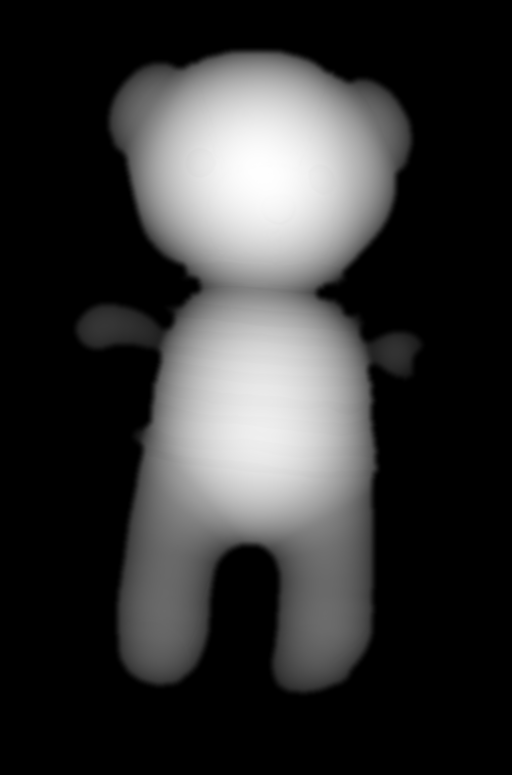
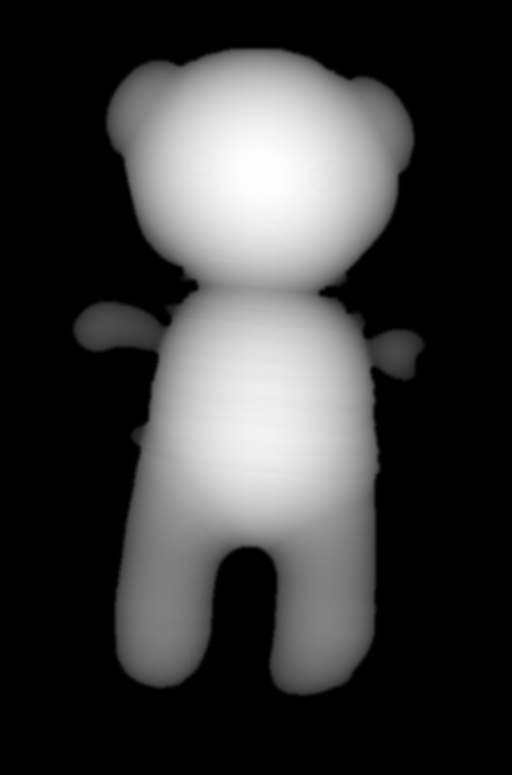
MUCH LOVED: 인형을 더 빵빵하게(두께 앞 1.25·뒤 1.1, 단면 불룩하게)
Claude-Session: https://claude.ai/code/session_012fgrQSuz8bdMe6fYoW4Pch

diff --git a/js/muchloved.js b/js/muchloved.js
@@ -207,7 +207,7 @@ function tex(u, color) {
   if (!texCache.has(u)) texCache.set(u, new Promise((r) => loader.load(u, (t) => { if (color) { t.colorSpace = THREE.SRGBColorSpace; t.anisotropy = 4; } r(t); }, undefined, () => r(null))));
   return texCache.get(u);
 }
-const DEPTH = 0.36, BACK = 0.3, FRONT_K = 0.8, BACK_K = 0.7, MAX = THREE.MathUtils.degToRad(22), TURN = THREE.MathUtils.degToRad(42);
+const DEPTH = 0.36, BACK = 0.3, FRONT_K = 1.25, BACK_K = 1.1, MAX = THREE.MathUtils.degToRad(22), TURN = THREE.MathUtils.degToRad(42);
 
 // 셰이더: 표준 재질에 자국 지도(R 손때 · G 해진 곳 · B 눌림)와 누르는 자리(uPress)를 더함
 function wearMaterial(d) {
@@ -264,11 +264,11 @@ function wearMaterial(d) {
 const dolls = new Map(); // id → doll (만들어진 것)
 const making = new Map(); // id → Promise
 let _th = null;
-const thick = () => _th || (_th = fetch(A + 'r/depth.json?v=3').then((r) => r.json()).catch(() => ({})));
+const thick = () => _th || (_th = fetch(A + 'r/depth.json?v=4').then((r) => r.json()).catch(() => ({})));
 function makeDoll(id) {
   if (making.has(id)) return making.get(id);
   const p = (async () => {
-    const [col, dep, nor, TH] = await Promise.all([tex(A + `r/${id}_color.webp?v=2`, 1), tex(A + `r/${id}_depth.png?v=4`), tex(A + `r/${id}_normal.webp?v=4`), thick()]);
+    const [col, dep, nor, TH] = await Promise.all([tex(A + `r/${id}_color.webp?v=2`, 1), tex(A + `r/${id}_depth.png?v=5`), tex(A + `r/${id}_normal.webp?v=5`), thick()]);
     if (!col) return null;
     const asp = col.image.width / col.image.height;
     // 인형마다 실제 두께(둥근 단면, tools/muchloved-relief/relief2.py) — 없으면 예전 값

diff --git a/muchloved.html b/muchloved.html
@@ -33,6 +33,6 @@
   <main id="ml"></main>
   <div id="ml-sleep" class="ml-sleep" hidden><p class="ml-sleep-t">00:00</p><p class="ml-sleep-h">들어 올리면 깨어나요</p></div>
   <video id="ml-cam" playsinline muted hidden></video>
-  <script type="module" src="js/muchloved.js?v=15"></script>
+  <script type="module" src="js/muchloved.js?v=16"></script>
 </body>
 </html>

diff --git a/tools/muchloved-relief/relief2.py b/tools/muchloved-relief/relief2.py
@@ -40,7 +40,9 @@ def run(folder):
         # 가장자리에서 두께가 0이 되게(2026-11-25): 둥근 단면은 테두리에서 가파르게 솟아서
         # 앞면·뒷면이 테두리에서 만나지 못하고 틈이 벌어져 '찢어진' 것처럼 보였음
         de = cv2.distanceTransform(m, cv2.DIST_L2, 5).astype(np.float32)
-        e = np.clip(de / 10.0, 0, 1); z *= e * e * (3 - 2 * e)   # 테두리 10px 안에서 부드럽게 0으로(격자 4칸쯤)
+        # 솜이 꽉 찬 단면(2026-11-25 소유자: 더 빵빵하게): 둥근 단면을 조금 더 불룩하게(어깨가 꽉 찬 모양)
+        zm0 = float(z.max()) or 1.0; z = zm0 * (z / zm0) ** 0.78
+        e = np.clip(de / 6.0, 0, 1); z *= e * e * (3 - 2 * e)   # 테두리 6px 안에서 부드럽게 0으로
         # 천의 주름·솔기: 사진 밝기의 잔결을 아주 조금
         g = cv2.cvtColor(cv2.resize(col[:, :, :3], (w, h), interpolation=cv2.INTER_AREA), cv2.COLOR_BGR2GRAY).astype(np.float32) / 255
         hp = g - cv2.GaussianBlur(g, (0, 0), 4)

diff --git a/CLAUDE.md b/CLAUDE.md
@@ -20,7 +20,7 @@
 | `bitssal.html` + `js/bitssal.js` | A-003 빛쌀 단독 스크롤 스토리 (캔버스 쌀알 1,900개, 15장면). **PART 1 순이의 이야기**(prologue→life→hunger→demand→street→spread→erased→boundary→mine→truth→light — **2026-11-18 소유자: 광주(1980 주먹밥) 장 'share'는 뺌**, 장 번호는 빛이 10, 글·체험 코드는 파일에 남겨 둠: 이야기·조작만, 기록·사진·영상 없음) → **PART 2 작품과 기록**(work: 조형물·사진·작품 영상 / records: 짧은 기록 7장 / archive). **장마다 읽기 → 체험 순서**(2026-11-14): 장 표지(번호·제목, 이때 쌀알·그림은 거의 꺼짐) → 이야기 카드(읽는 동안 얼굴만 그리고 장면 그림은 흐리게, 숫자·라벨 숨김, 조작·센서는 받지 않음) → 한 화면 띄우고 '체험' 카드(이때부터 조작). 예전 떠오르는 장 제목(chap-flash)은 없앰. **하나씩, 여유 있게**(소유자 요청): 장 표지는 번호→제목→선 차례로, 이야기 카드는 쌀 얼굴이 먼저 그려지고(1.4초) 문단이 함께 나타남(2문단 정도는 한 번에 괜찮음, 소유자), 읽을 시간(글자 수로 4~14초)이 지나야 체험이 열림(`runSeq`, 카드가 화면 밖이면 멈춤). **한 번에 하나만**: 얼굴을 그리는 동안 다른 쌀알·장면 그림은 거의 끔(97%), 장 표지 때도 거의 끔, 위로 지나간 장 표지·이야기 카드는 `.past`로 사라짐. **체험 카드는 바로 앞 이야기를 다 읽어야 열림**(`.card.play.locked` → `opened`, 잠긴 동안 조작·센서 안 받음, '위의 이야기를 다 읽으면 체험이 열려요'). 카드 사이 간격·장 끝 여백을 넓힘(종류가 바뀔 때 크게: 표지→이야기 0.55화면, 이야기→다음 0.9, 체험→다음 0.6, 다른 카드→이야기 0.6). **휴대폰(앱)만: 쌀알이 끊기지 않고 모양을 바꿔 흐름**(2026-11-16, PC는 예전대로): 첫 화면은 쌀알로 된 《빛쌀》 조형물(`sculpt`, 상단 머리와 아래 글 사이에 맞춤, 유리 테두리 `glassW` 안에서만) + 아래 글('한 톨의 쌀알에 얽힌 이야기 / 아흔 살 순이가 대구에서 겪은 일', 4개 언어) → 흩어짐(`dust`) → 아흔 살 순이 얼굴 → '한 그릇 더' → 흩어짐 → **장 제목(이때는 흩어진 채) → 제목이 지나가면 그 장의 모양(`SHAPE_OF`, `js/bitssal-shapes.js`) → 그 모양이 그대로 인물 얼굴로**(얼굴 없는 장은 글이 올라올 때까지 모양 유지) → 글 → 흩어짐 → 체험 카드가 아래에 붙으면(`.docked`) 체험. 모양: 밥상(table)·쌀독(jar)·쌀 한 톨(grain)·등잔(lamp, 켜지 않은)·지도(spread)·경찰(police, 이목구비 없음)·고무신(shoes)·밥 한 그릇(bowl)·7(seven)·주먹밥(riceball)·불꽃(flame). 모드 `mm`: title > face > play > shape > intro > dust. 다른 글('4년 뒤' 등)이 보이면 모양을 띄우지 않음. 장 표지 → 이야기 사이 0.9화면, 다른 글 → 이야기도 0.9화면. **글 뒤 어두운 바탕·테두리 없음**(글자 그림자만, 붙은 체험 카드 아래만 옅은 그라데이션). **휴대폰 체험 바뀜**(`MOB`, 문구 `mia`): ①밥상 = 폰을 주걱처럼 숙였다 들면(`watchScoop`, 기울기 tiltY 흔들림) 가운데 솥에서 밥을 떠 그릇에 담음(3번에 한 그릇, 솥을 눌러도 됨) ②쌀독 = 큰 쌀독만, 흔들어 털면 바닥에 쌀이 쌓임 ④밤 = 새벽에 오빠 얼굴 겹치던 것 뺌 ⑥낮은 목소리 = 체포영장 같은 옛 문서(일러스트, '문서는 이해를 돕기 위한 일러스트')가 먼지에 덮여 있다가 후 불기(마이크)·문지르기로 드러남. **광산부터 줄임**: 광산(손전등)·주먹밥(돌리기) 체험 카드 없음, 빛은 누르기·들어 올리기만(마이크·AR 버튼 뺌), 7월은 그대로. 작품 장 조형물은 기울이면 흐르는 속도만 바뀜(밀림·흔들림 없음). **기억을 위한 한 문장**: 남기면 글자 하나하나가 입력칸에서 불빛처럼 떠올라 빛 장면 하늘(`.mem-sky`, 최근 5문장)에 머묾(PC도 같음, 캔버스 빛 점은 뺌). **마지막 '전시 행성 나가기'**(예전 'ARTMOS 행성계로 돌아가기'가 #story의 pointer-events 때문에 안 눌렸음): 앱 안이면 `postMessage({type:'artmos:close-exhibit'})` → `app.js`가 전시를 닫음, 웹이면 홈으로. **스크롤 끊김 줄이기**(2026-11-17): 쌀알은 색·크기별로 한 번 그려 둔 그림(`grainSprite`)을 회전해서 찍기만 함(매 프레임 도형 1,900개를 새로 그리지 않음, 다 찍은 뒤 `gReset()`), 화면 밖·안 보이는 쌀알은 건너뜀, 흩어진 쌀알은 2/3만, 휴대폰 캔버스는 1.5배 해상도, 주소창 때문에 높이만 조금 바뀌는 resize는 무시(캔버스·카드 다시 배치 안 함), 휴대폰은 화면 전체 필름 입자 애니메이션 멈춤·글자 그림자 한 겹. 측정(휴대폰 크기, CPU 4배 느리게): 쌀알 그리기 JS 프레임당 약 21ms → 11ms. **스크롤 속도 맞춤**(2026-11-17 소유자: 빈칸 줄이기): 휴대폰만 카드 사이 빈칸을 줄임(`GAP_M`: 장 표지→얼굴 이야기 0.35·얼굴 없는 이야기 0.55, 이야기→다음 0.4, 체험→다음 0.4, 체험 뒤 0.6, 기본 간격 0.07, 장면 기본 길이 ×0.75, 얼굴 자리 `.st-stage` 82→70svh — 얼굴 크기는 화면 폭으로 정해져 그대로) → 휴대폰 전체 길이 79화면 → 약 56화면(390px), PC는 그대로 68화면. 붙은 체험 카드는 붙기 전 높이(`_natH`)로 배치해 아래가 들썩이지 않게. 장면·카드 위치는 배치할 때 한 번 재 두고(`GEO`, `cacheGeo()`, `rect(el)`) 프레임마다는 scrollY만 빼서 씀(매 프레임 getBoundingClientRect 17곳 → 0). 쌀알 움직임은 프레임 길이로 보정(`FR`, 120Hz·느린 프레임에서도 같은 빠르기)하고 빨리 스크롤하면(`SCR`, 1.5화면/초면 최대) 더 빨리 모여 글을 바로 따라옴. 진행 막대는 width 대신 transform scaleX. 첫 장면(prologue)은 기본 길이를 줄이지 않음(줄이면 아래 글이 올라가 조형물이 상단 머리와 겹침). 붙은 체험 카드는 가로 스크롤 금지(`overflow-x: hidden`, 예전 그라데이션 조각이 카드 밖으로 나가 아이폰에서 글이 옆으로 밀렸음), 바탕 그라데이션은 카드 안에. 맨 위·아래에서 당길 때 출렁임은 `overscroll-behavior-y: none`. **얼굴·글 한 화면 + 장 모양 머물기**(2026-11-18 소유자): 얼굴 자리 `.st-stage` 70→44svh, 얼굴 크기는 `min(얼굴 자리 높이/2.2, 화면 폭×0.42)`라 얼굴(위아래 약 2배)이 자리 안에 맞고 아래 글 상자와 한 화면에 같이 보임. 장 제목이 지나 나온 장 모양은 적어도 `SHAPE_MIN`(2.4초) 머문 뒤 얼굴·글로 바뀜(빨리 내려도 한 번은 보여 줌, 장마다 한 번), 모양→얼굴 바뀜은 약 1.4초로 천천히, 장 표지→얼굴 이야기 간격 0.35→0.5. **상단 바 위치(2026-11-18)**: 앱 안 전시 틀(iframe)에서는 아이폰이 상태 표시줄 높이(`env(safe-area-inset-top)`)를 0으로 줘서 상단 바가 시계 줄과 겹쳤음 → 빛쌀은 `--sat` 변수로 상단 바·진행 막대·목차·HUD 위치를 잡고, 앱 안 아이폰이면 `bitssal.js` 첫머리가 화면 높이로 어림(852 이상 59px·812 이상 47px·그 밖 20px), 앱이 `postMessage({type:'artmos:safe', top})`로 정확한 값을 보내면 그걸 씀(`app.js` 전시 틀 load 때 보냄 — 앱 틀이라 다음 앱 빌드부터). `bitssal.html` viewport에 `viewport-fit=cover`. **얼굴 없는 이야기엔 물건**(2026-11-18 소유자): 휴대폰에서 얼굴 없는 이야기 카드(밤·번짐·낮은 목소리·한 그릇 더)도 얼굴 자리(`.st-stage`, `data-obj`)를 두고 그 장의 물건(`SHAPE_OF`: 등잔·지도·경찰·밥그릇)을 얼굴처럼 그림(`objPoints`: 높이 2·폭 2.1에 맞춤, 장 모양에서 그대로 옮겨 감). **쌀독 체험**: 털어낸 만큼 독 안 쌀알 수가 줄어 40번 털면 빈 독(예전엔 바닥으로 눌리기만 해서 차 보였음). **대구까지 거리**(번짐 체험, 휴대폰): 위치를 받으면 번짐 약도 위 '지금 나' 자리에서 대구까지 쌀알 360개가 2.5초에 걸쳐 한 줄로 이어지고 가운데 km 표시, 대구 고리가 깜빡임(`geoTrail`, `geoXY` — 지역 덩어리에 맞춘 대략의 투영, 지도 밖·해외면 대구에서 그 방향 지도 끝), 결과 글 끝에 '약도 · 실제 위치와 조금 다를 수 있어요'(4개 언어 `GEO_T`). 위치는 기기 안에서만 씀. 시험 `#debug`면 `window.__bs`(state). **전체 점검(2026-11-18)**: 빛쌀 번호 A-003 → **A-002**(닫힌 전시를 빼고 다시 매긴 번호, `bitssal.js` 맨 위 `NUM`·`bitssal-scenes.js` p0·`bitssal.html` 제목 — 번호가 바뀌면 셋 다), 탭 아이콘(`artmos-mark.svg`) 넣어 favicon 404 없앰, **일본어·중국어 줄바꿈**: `word-break: keep-all`(한국어용)이 띄어쓰기 없는 일본어·중국어 문단을 한 줄로 만들어 휴대폰에서 화면이 옆으로 137px 넘쳤음 → `html:lang(ja|zh)`면 글자 단위 줄바꿈(`bitssal.css`·`style.css` 끝, 최초의 방 등 전시 페이지도 같이). 4개 언어×휴대폰·PC로 모든 장을 내려가며 체험을 열고 누르는 자동 점검: 오류 0, 카드 겹침 0, 가로 넘침 0. **휴대폰 상단 바 자동 숨김**(2026-11-17 소유자): 아래로 24px 넘게 스크롤하면 머리·진행 막대가 위로 숨고(`body.top-hide`), 위로 14px 올리면 다시 나옴. 맨 위(120px 안)·목차 열린 동안은 늘 보임. PC는 그대로. 측정(390px, CPU 4배 느리게, 30화면 스크롤): 스크립트 시간 −14%, 레이아웃 횟수 1,019 → 약 480. **휴대폰 배치**(2026-11-14): 이야기 카드 위쪽은 투명한 얼굴 자리(`.st-stage`, 46vh)로 비우고 글은 아래 상자(`.st-box`)에 — 쌀 얼굴이 그 자리에 그려져 카드와 함께 스크롤됨(작은 초상은 숨김). 체험 카드는 화면 아래에 고정(`.docked`, 다음 카드·다음 장이 보이기 전에 내려감), 쌀알 무대 중심은 화면 38% 높이. 글 카드엔 어두운 바탕, 큰 연도 숫자는 휴대폰에서 숨김, 입장 화면·상단 머리는 뒤가 비치지 않게. **내레이션 녹음 붙임**(2026-11-18): 한국어 12개 `assets/narration/ko/ko_<키>.mp3`(prologue·life·hunger·demand·street·spread·erased·boundary·mine·truth_1·truth_2·light, 128kbps 모노, 합계 4.4MB, 소유자가 보낸 01~12를 이 순서로 — 11번이 7월 두 번째 이야기인지 소유자 확인 필요). 이야기 카드에 `data-nk`(장 이야기가 둘이면 `_1`·`_2`). 소리를 켠 사람에게만, 이야기 글이 나타나면(`c._shown`) 그 카드 녹음을 틀고 배경 소리는 0.35로 낮춤, 글 상자가 화면을 벗어나거나 다른 이야기로 가거나 소리를 끄거나 영상을 틀면 멈춤, 끝까지 들은 카드는 다시 틀지 않음. **녹음이 끝나야 체험이 열림**(`_narrWait`, 멈춰도 길이+4초 뒤엔 열림). 아이폰은 첫 터치 때 0.1초 무음을 틀어 재생을 풀어 둠(이미 읽는 중이면 건드리지 않음, 막히면 다음 터치 때 다시). 얼굴이 보일 때 파일을 미리 받음. 다른 언어는 `NARR_LANGS`에 넣고 `en/en_life.mp3`처럼 넣으면 됨. 시험: `#debug`면 `window.__narr`. 예전 기기 음성 `js/bitssal-narrator.js`는 안 씀(남겨 둠). 이야기 문단은 하나씩 나타남, 가장자리 어둡게+필름 입자. 렌더 루프는 오류가 나도 멈추지 않게 `draw()`를 try로 감쌈. 끝부분에 모바일 전용 블록(흔들기·AR) |
 | `sansa.html` + `js/sansa.js` + `css/sansa.css` | **A-004 산사, 잠시 머물다** 3D 온라인 산사 (Three.js, 기획 제안 프로토타입, 조계종 협력 가정·협의 전 — 실제 주최로 표시하지 말 것, 로고·공식 문구 사용 금지). 산문 → 돌길 마당(석등) → 계단 → 법당 '고요당'(VALIX 현판·후불벽 무늬·불상·초·연등·방석). 캐릭터(작은 방랑자 스님, 이름표는 앱 항해명 `valix-me`)를 뒤에서 따라감. 휴대폰: 앞으로 기울이면 걷기·몸을 돌리면 방향(나침반)·흔들면 목탁·엎었다 들면 절·화면 보며 돌리면 염주·방석에 앉아 엎어 두면 좌선(들면 종). PC: WASD/방향키·끌기. 하단 합장·절하기·목탁·염주·앉기, 상단 나가기·소리·설정(기울여 걷기/나침반 끄기, 자세 다시 맞추기), 염불 듣기('나무아미타불'을 목소리 합성 — 성대 톱니파+포먼트 필터, 세 사람 합창, 음절마다 목탁, 화면에 음절 자막). 소리: 목탁은 나무 울림 합성, 압축기·리미터로 휴대폰 스피커 음량 확보, iPhone 무음 스위치 대응(`navigator.audioSession='playback'`+무음 오디오), 앱 전환·권한 창 뒤 자동 재개. `#debug`면 `window.__snd`(소리 테스트용). 접속자 수·다른 사람 아바타는 서버가 필요해 아직 없음. `#debug`면 `window.__st` 노출 |
 | `silnat.html` + `js/silnat.js` + `css/silnat.css` + `js/silnat-art.js` | **c007 A-003 실낱 같은 희망(김바늘, 작가 동의 받음, 2026-11-17 공개, 무료)** — `data/cells.json` c007(url·month 2026-11·poster·logo 칸), 포스터 `assets/posters/c007-*`, 월간 호 2026-11·2026-12.  스크롤 한 줄 붉은 실 전시, **센서 없음**. 첫 장면은 원작 Take 1·2(작가 허락, 원작 사진의 선을 벡터로 옮김 `assets/silnat/take1-ink.svg`·`take2-ink.svg`, 변환 `tools/silnat-trace.py` — 고해상도 원본 받으면 다시 뽑기)를 스티키로: 선이 나타남 → 숨 쉼(인물만 `clip-path`로 떼어 scale, 머리카락 흔들림 필터는 무거워서 뺌) → 고개를 듦(Take 1→2 겹쳐 바뀜) → 구석의 붉은 실. 그 실 끝에서 진짜 실(두 가닥 꼬임·보풀·그림자, `redThread`)이 이어져 다섯 사람(가상의 인물·전시 문안: 정옥·민재·영호·란·서윤) 장면 그림(`sceneSVG`, 검은 실 스케치·인물 이목구비 없음)을 차례로 감고 다시 그 방 발치까지 감. 실은 가장자리를 따라 내려가 장면 사이 빈 곳에서만 건넘(`route`), 가로로 가거나 감길 땐 늦게 나타나 그 자리에 머묾. 실은 280px 조각 SVG로 나눠 제자리에 두고 보이는 조각만, 바늘이 지나는 조각에만 mask. 매듭 짓기(선택), 아직 수놓이지 않은 장(Take 3~5), PART 2 작품 정보·크레딧, 끝에 109·마들랜 한 줄. 문서 `docs/exhibitions/c007-silnat/`. 한·영·중·일(글은 `silnat.js`의 `TEXT`, 외국어엔 장면마다 배경 한 줄, 109 대신 '가까운 상담 기관') |
-| `muchloved.html` + `js/muchloved.js` + `css/muchloved.css` | **c008 MUCH LOVED(김규진, 작가 계약·3D 공개 포함·사진 사용 허락, 2026-11-18 공개, 무료)** — 애착 인형 조각 15점. `data/cells.json` c008(url·month 2026-11,2026-12), 월간 호 2026-11 표지(첫 장)·2026-12, 포스터·로고 `assets/posters/c008-*`(소유자가 준 소파 설치 사진·손글씨 로고, 포스터는 3:4로 위아래를 조금 자름). **v3(2026-11-19 소유자: 3D를 더 적극적으로, 옆으로 넘기지 말고 쭉 스크롤)**: 화살표·좌우 넘기기 없이 **세로 스크롤 하나**. 0 쥐기(꾹 누르면 심장 박동·글 6줄, '들어가기'에서 동작 권한) → 장 표지 → 레진 인형 10점이 한 장면씩(`.dsec` 230svh, 붙박이 칸 `.stk`를 따라 3D가 함께 오르내림, 두 인형이 겹쳐 지나갈 때도 둘 다 그림): 액자 7(SNOW·DINO·FLOOPY·HOBBY·FU FU·PEANUT·MOON) → 서랍(TOMMY 사진, **내려갈수록 서랍이 열림** + 몸 쪽으로 당겨 세우기) → 소파 3(JAKE·PEANUT·MAS, 내려갈수록·기울이면 쿠션이 벌어짐) → 두 손으로 감싸기(두 손가락 이상·꾹, 덤으로 카메라 밝기) → 은빛 바닥(알루미늄 4 사진, 쓸면 **입김처럼 흐렸다 다시 맑아짐**·기울이면 빛, '금속은 닳지 않아요') → 잠들기(엎어 두기·손바닥 얹기·버튼) → 5 **당신이 남긴 자국**(인형마다 손때·해진 곳·납작해진 곳 %) + 나의 인형 이름표(`valix-muchloved-tag`) → 6 맺음. **입체를 더 깊게(2026-11-20 소유자: 다소 평면적)**: 인형마다 **뒷면**(`backMesh`: 앞면 사진을 흐리게 해 얼굴 없는 천 뒷모습 + 깊이를 꼭짓점으로 옮겨 뒤로 0.3, 앞면과 가장자리에서 만나 닫힌 몸통, 앞면 깊이 0.36), 스크롤로 들어올 때·나갈 때 **옆으로 약 77° 돌며** 두께·뒷모습이 보이고, 머무는 동안 기울기·마우스로 ±42° 돎(액자째로는 ±10°만 → 시차). 액자 인형은 **3D 액자 상자**(`frameBox`: 흰 틀 깊이 0.62·안쪽 짙은 판·핀 조명 웅덩이), 소파 인형은 **3D 천 쿠션**(`sofaCatcher`→`pillow` 등받이·앉는 자리, PEANUT은 앞 쿠션 사이에서 귀만 보이다 끌어 올림 — 예전 CSS 쿠션 `.cush`는 안 씀). **휴대폰 맞춤(2026-11-25 소유자: 모바일에서 소파가 잘 안 보임)**: 소파가 화면보다 넓어 회색 벽처럼만 보였음 → 양쪽 팔걸이를 붙이고, 휴대폰은 소파 폭을 좁혀(`asp×1.05+0.25`, 팔걸이 0.26) 팔걸이까지 화면 폭 95% 안에 다 들어오게 크기를 정함(`box.userData.w`). 휴대폰 액자는 화면 폭 80%(PC 84%). **스포트라이트**(`spot`) 하나가 화면 가운데 인형을 따라가며 실제 그림자(앞·뒷면 모두 `customDepthMaterial`로 투명한 곳 빼고)를 액자 안·쿠션에 드리움, 휴대폰 그림자 지도 1024. 인형 입체 체험: 앞면 입체(`assets/muchloved/r/<id>_color·_depth·_normal`) + 인형마다 **자국 지도** 캔버스(256px, R 손때·G 해진 곳·B 눌림/반들)를 `MeshStandardMaterial.onBeforeCompile`이 읽음(B는 오목+그늘+거칠기 낮춤=반들, uPull로 잡아당김). **인형마다 체험 하나씩(2026-11-19 소유자: 각 인형별로 다른 체험, 하나씩만, `MODE`)**: SNOW 문지르기(손때) · DINO 후~ 불기(마이크·버튼, 손때 많은 곳부터 해진 곳이 30%까지 자라며 비어져 나온 솜·솜 입자) · FLOOPY 꾹 누르기(300ms 넘게 가만히, 1.2초면 최대, 놓으면 조금 납작하게 남음) · HOBBY 흔들기(센서·버튼, 해진 틈에서 솜이 떨어짐) · FU FU 꼭 껴안기(두 손가락 이상 또는 꾹, 인형이 폭 눌리며 1.1초마다 박동) · PEANUT(액자) 톡톡 두드리기(두드린 자리가 반들반들) · MOON 잡아당기기(끌면 천이 늘어나고 놓으면 돌아옴, 세게 당기면 실밥이 터져 솜) · JAKE 기울이기(PC는 끌기, 소파 위를 구르며 아래쪽에 먼지 자국) · PEANUT(소파) 꺼내기(앞 쿠션 `.cush.f` 틈에서 위로 끌어 올림) · MAS 이름 부르기(마이크 `micLevel`·버튼, 목소리에 몸을 돌리고 빛이 밝아짐). **다 채우면 바뀜(2026-11-25 소유자: 100% 채워도 변화가 없음)**: 인형마다 진행 막대(`.d-prog`, `progOf`: 손때 40%·해진 곳 28%·누르기 5번·흔들기 12번·안기 8초·두드리기 20번·당기기(번+실밥×2) 8·굴리기 8·꺼내기 찾음·부르기 3번) → 100%면 `complete()`: 한 바퀴 돌며 떠오름(1.8초), 남긴 자국이 금빛으로 숨 쉬듯 빛남(셰이더 `uGlow`, 닳은 자리=사랑받은 자리), 금빛 가루(`sparkle`, 덧셈 혼합), 스포트라이트가 따뜻하게, 종소리·박동, 안내 글이 '다 채웠어요'+인형마다 한 문장(`DONE_LINE`), 막대 금빛. '원래대로'면 처음으로(`undone`). 5장에 '다 채운 인형 n / 10'. **PC·노트북은 다른 체험(2026-11-25 소유자: 웹은 PC에서 할 수 있는 경험으로 앱과 다르게, `PC = !IS_MOBILE`, 문구 `TEXT_PC`)**: SNOW 마우스를 올려 쓰다듬기(누르지 않아도) · DINO 스페이스바 누르고 있기(+마이크 버튼) · FLOOPY 인형 위에서 휠 굴리기(굴린 만큼 깊이, 멈추면 자국) · HOBBY 잡고 좌우로 세게 흔들기(방향이 바뀔 때마다 한 번, `d.wob`로 흔들림) · FU FU 인형 둘레를 마우스로 한 바퀴 그리기(`circ`, 4.2초 안음) · PEANUT(액자) 키보드 아무 글자로 톡톡(마우스가 가리킨 자리) · MOON·PEANUT(소파) 끌기 그대로 · JAKE ← → 키(+끌기) · MAS 키보드로 이름 M·A·S 쓰기(`.d-type` 글자 칸, +마이크 버튼). 두 손으로 감싸기 = 마우스로 동그라미 + 스페이스바 함께(한쪽만이면 안내), 카메라 버튼은 '두 손으로 웹캠을 가려 보기'. 잠들기 = 손 떼고 10초 가만히(3초부터 카운트다운, 마우스 움직이면 깨어남) 또는 노트북 덮기(`visibilitychange`). 첫 화면은 마우스·스페이스바 꾹. 휴대폰 체험은 그대로. 버튼은 그 체험에 필요한 것만(휴대폰: 불기·흔들기·부르기, PC: 마이크로 불기·부르기), 자국이 남는 체험만 작은 '원래대로'. 아래 글줄(`.d-meter`)과 5장 '당신이 남긴 자국'에 인형마다 다른 기록(손때 %·○번 눌렀어요·○초 동안 안았어요·터진 실밥 ○곳·찾았다 등). 인형이 바뀌면 지난 인형의 솜 입자는 치움. **소리(2026-11-19 소유자: 체험 소리와 배경음)** `js/muchloved-sound.js`(`snd`, 음원 파일 없이 Web Audio 합성): 배경음 = 직접 지은 8마디 자장가 오르골 + 부드러운 화음 + 방 공기, 장마다 바뀜(intro 박동만 · wall 맑은 오르골 76bpm · drawer 느리게 · sofa 한 옥타브 낮고 따뜻하게 · floor 금속 종 소리로 바뀌고 태엽이 풀리듯 점점 느려짐 · sleep 거의 고요 · end 다시 밝게). 체험 소리 = 문지르기 천 스침(`rustle`, 문지른 만큼) · 불기 바람(`wind`)+실밥 찢어지는 소리+솜 · 누르기 눌림/풀림 · 흔들기 솜 털림 · 껴안기·박동마다 심장 소리(`beat()`가 냄) · 두드리기 톡 · 잡아당기기 천 삐걱(`creak`, 당긴 만큼 높아짐)+실밥 끊김 · 굴리기 소파 구르는 소리(`rumble`)·쿵 · 꺼내기 쿠션 끽끽(`squeak`)+뽁 · 부르기 대답하는 종(그 뒤 1.2초는 마이크를 듣지 않아 스스로 다시 걸리지 않게) · 서랍 미끄러짐·덜컥·종 · 쿠션 벌어지는 천 소리 · 금속 입김·작은 종 · 잠에서 깨는 종 · 바느질 한 땀 · 원래대로 종. 첫 터치에 켜지고(`xpace-sound=off`면 그대로 꺼짐), 상단 '소리 켜짐/꺼짐' 버튼(`#ml-snd`), 아이폰 무음 스위치·앱 전환 대응. 시험 `__ml.snd.level()`(출력 크기). 인형 위에서 시작한 터치만 스크롤 대신 체험(`touchstart` preventDefault), 그 밖은 그대로 스크롤. 인형마다 앞세우는 동작(`FOCUS`)만 다르고 모든 동작은 어디서나 됨. **'원래대로'** 버튼으로 언제든 작품 원래 모습, 크레딧에 '손때·해진 곳·눌림은 이 화면에만 그려지는 효과이며 작품의 실제 상태가 아님'. 자국은 페이지를 떠나면 사라짐(저장 안 함). **붙박이(sticky)가 안 되던 문제**: `body`의 `overflow-x: hidden`이 스크롤 상자를 만들어 sticky가 풀렸음 → `overflow-x: clip`. 아이폰 웹은 진동 대신 화면 가장자리 박동(`beat`). 소파 사진 속 캐릭터 장난감은 쓰지 않음. 입체 다시 만들기 `tools/muchloved-relief/`. **인형 모양 v2(2026-11-21 소유자: 인형 형태가 이상함)**: `relief2.py`(`python3 tools/muchloved-relief/relief2.py assets/muchloved/r`, 컬러 webp의 알파만으로 다시 뽑음) — 예전 relief.py는 거리 지도 제곱근을 흐려 가운데가 뾰족한 지붕 모양이었음 → 인형 안 모든 점에 들어가는 가장 큰 공을 합친 높이(`h² = max(d(q)² − |x−q|²)`)라 머리는 공·팔다리·귀는 원통, 목·팔 붙는 곳은 잘록. **찢어져 보이던 것 고침(2026-11-25 소유자)**: 둥근 단면이 테두리에서 가파르게 솟아 앞·뒷면이 테두리에서 만나지 못하고 틈·톱니가 생겼음 → `relief2.py`에서 테두리 10px 안에서 두께를 부드럽게 0으로, 뒷면은 앞면(GPU 선형 보간)과 똑같이 원본 깊이 지도를 선형 보간으로 읽고 격자 200칸, 뒷면 색은 덜 흐리고 덜 어둡게, 해진 결 무늬는 해진 자국이 있는 곳에만, 오린 테두리 3px의 배경색 띠를 안쪽 천 색으로 채움(`edgebleed.py`, 원래 모양 알파는 그대로). 텍스처 주소에 `?v=` 붙여 캐시 갱신. 시험 `#debug`면 `__ml.turn = 1.3`으로 인형 각도 고정. 두께는 인형마다 실제 비율(`r/depth.json`, 높이 1 기준 반쪽 두께) × 앞 0.8·뒤 0.7(`FRONT_K`·`BACK_K`, 인형 객체 `dz`·`bz`). 문서 `docs/exhibitions/c008-muchloved/`. **한·영·중·일(2026-11-19)**: 화면 문구는 `js/muchloved-i18n.js`의 `t('한국어 문장')`(키 = 한국어, 없으면 한국어), 작가 약력·크레딧은 키 `BIO`·`CREDIT`, 외국어 작가명 Kim Gyuzin, 상단에 언어 선택. 목록·앱 카드 번역은 `data/i18n.json` cells.c008(이때 `data.js`가 `summary`도 번역하게 함, v=37 — 앱 틀 안의 data.js는 다음 앱 빌드부터). `#debug`면 `window.__ml` |
+| `muchloved.html` + `js/muchloved.js` + `css/muchloved.css` | **c008 MUCH LOVED(김규진, 작가 계약·3D 공개 포함·사진 사용 허락, 2026-11-18 공개, 무료)** — 애착 인형 조각 15점. `data/cells.json` c008(url·month 2026-11,2026-12), 월간 호 2026-11 표지(첫 장)·2026-12, 포스터·로고 `assets/posters/c008-*`(소유자가 준 소파 설치 사진·손글씨 로고, 포스터는 3:4로 위아래를 조금 자름). **v3(2026-11-19 소유자: 3D를 더 적극적으로, 옆으로 넘기지 말고 쭉 스크롤)**: 화살표·좌우 넘기기 없이 **세로 스크롤 하나**. 0 쥐기(꾹 누르면 심장 박동·글 6줄, '들어가기'에서 동작 권한) → 장 표지 → 레진 인형 10점이 한 장면씩(`.dsec` 230svh, 붙박이 칸 `.stk`를 따라 3D가 함께 오르내림, 두 인형이 겹쳐 지나갈 때도 둘 다 그림): 액자 7(SNOW·DINO·FLOOPY·HOBBY·FU FU·PEANUT·MOON) → 서랍(TOMMY 사진, **내려갈수록 서랍이 열림** + 몸 쪽으로 당겨 세우기) → 소파 3(JAKE·PEANUT·MAS, 내려갈수록·기울이면 쿠션이 벌어짐) → 두 손으로 감싸기(두 손가락 이상·꾹, 덤으로 카메라 밝기) → 은빛 바닥(알루미늄 4 사진, 쓸면 **입김처럼 흐렸다 다시 맑아짐**·기울이면 빛, '금속은 닳지 않아요') → 잠들기(엎어 두기·손바닥 얹기·버튼) → 5 **당신이 남긴 자국**(인형마다 손때·해진 곳·납작해진 곳 %) + 나의 인형 이름표(`valix-muchloved-tag`) → 6 맺음. **입체를 더 깊게(2026-11-20 소유자: 다소 평면적)**: 인형마다 **뒷면**(`backMesh`: 앞면 사진을 흐리게 해 얼굴 없는 천 뒷모습 + 깊이를 꼭짓점으로 옮겨 뒤로 0.3, 앞면과 가장자리에서 만나 닫힌 몸통, 앞면 깊이 0.36), 스크롤로 들어올 때·나갈 때 **옆으로 약 77° 돌며** 두께·뒷모습이 보이고, 머무는 동안 기울기·마우스로 ±42° 돎(액자째로는 ±10°만 → 시차). 액자 인형은 **3D 액자 상자**(`frameBox`: 흰 틀 깊이 0.62·안쪽 짙은 판·핀 조명 웅덩이), 소파 인형은 **3D 천 쿠션**(`sofaCatcher`→`pillow` 등받이·앉는 자리, PEANUT은 앞 쿠션 사이에서 귀만 보이다 끌어 올림 — 예전 CSS 쿠션 `.cush`는 안 씀). **휴대폰 맞춤(2026-11-25 소유자: 모바일에서 소파가 잘 안 보임)**: 소파가 화면보다 넓어 회색 벽처럼만 보였음 → 양쪽 팔걸이를 붙이고, 휴대폰은 소파 폭을 좁혀(`asp×1.05+0.25`, 팔걸이 0.26) 팔걸이까지 화면 폭 95% 안에 다 들어오게 크기를 정함(`box.userData.w`). 휴대폰 액자는 화면 폭 80%(PC 84%). **스포트라이트**(`spot`) 하나가 화면 가운데 인형을 따라가며 실제 그림자(앞·뒷면 모두 `customDepthMaterial`로 투명한 곳 빼고)를 액자 안·쿠션에 드리움, 휴대폰 그림자 지도 1024. 인형 입체 체험: 앞면 입체(`assets/muchloved/r/<id>_color·_depth·_normal`) + 인형마다 **자국 지도** 캔버스(256px, R 손때·G 해진 곳·B 눌림/반들)를 `MeshStandardMaterial.onBeforeCompile`이 읽음(B는 오목+그늘+거칠기 낮춤=반들, uPull로 잡아당김). **인형마다 체험 하나씩(2026-11-19 소유자: 각 인형별로 다른 체험, 하나씩만, `MODE`)**: SNOW 문지르기(손때) · DINO 후~ 불기(마이크·버튼, 손때 많은 곳부터 해진 곳이 30%까지 자라며 비어져 나온 솜·솜 입자) · FLOOPY 꾹 누르기(300ms 넘게 가만히, 1.2초면 최대, 놓으면 조금 납작하게 남음) · HOBBY 흔들기(센서·버튼, 해진 틈에서 솜이 떨어짐) · FU FU 꼭 껴안기(두 손가락 이상 또는 꾹, 인형이 폭 눌리며 1.1초마다 박동) · PEANUT(액자) 톡톡 두드리기(두드린 자리가 반들반들) · MOON 잡아당기기(끌면 천이 늘어나고 놓으면 돌아옴, 세게 당기면 실밥이 터져 솜) · JAKE 기울이기(PC는 끌기, 소파 위를 구르며 아래쪽에 먼지 자국) · PEANUT(소파) 꺼내기(앞 쿠션 `.cush.f` 틈에서 위로 끌어 올림) · MAS 이름 부르기(마이크 `micLevel`·버튼, 목소리에 몸을 돌리고 빛이 밝아짐). **다 채우면 바뀜(2026-11-25 소유자: 100% 채워도 변화가 없음)**: 인형마다 진행 막대(`.d-prog`, `progOf`: 손때 40%·해진 곳 28%·누르기 5번·흔들기 12번·안기 8초·두드리기 20번·당기기(번+실밥×2) 8·굴리기 8·꺼내기 찾음·부르기 3번) → 100%면 `complete()`: 한 바퀴 돌며 떠오름(1.8초), 남긴 자국이 금빛으로 숨 쉬듯 빛남(셰이더 `uGlow`, 닳은 자리=사랑받은 자리), 금빛 가루(`sparkle`, 덧셈 혼합), 스포트라이트가 따뜻하게, 종소리·박동, 안내 글이 '다 채웠어요'+인형마다 한 문장(`DONE_LINE`), 막대 금빛. '원래대로'면 처음으로(`undone`). 5장에 '다 채운 인형 n / 10'. **PC·노트북은 다른 체험(2026-11-25 소유자: 웹은 PC에서 할 수 있는 경험으로 앱과 다르게, `PC = !IS_MOBILE`, 문구 `TEXT_PC`)**: SNOW 마우스를 올려 쓰다듬기(누르지 않아도) · DINO 스페이스바 누르고 있기(+마이크 버튼) · FLOOPY 인형 위에서 휠 굴리기(굴린 만큼 깊이, 멈추면 자국) · HOBBY 잡고 좌우로 세게 흔들기(방향이 바뀔 때마다 한 번, `d.wob`로 흔들림) · FU FU 인형 둘레를 마우스로 한 바퀴 그리기(`circ`, 4.2초 안음) · PEANUT(액자) 키보드 아무 글자로 톡톡(마우스가 가리킨 자리) · MOON·PEANUT(소파) 끌기 그대로 · JAKE ← → 키(+끌기) · MAS 키보드로 이름 M·A·S 쓰기(`.d-type` 글자 칸, +마이크 버튼). 두 손으로 감싸기 = 마우스로 동그라미 + 스페이스바 함께(한쪽만이면 안내), 카메라 버튼은 '두 손으로 웹캠을 가려 보기'. 잠들기 = 손 떼고 10초 가만히(3초부터 카운트다운, 마우스 움직이면 깨어남) 또는 노트북 덮기(`visibilitychange`). 첫 화면은 마우스·스페이스바 꾹. 휴대폰 체험은 그대로. 버튼은 그 체험에 필요한 것만(휴대폰: 불기·흔들기·부르기, PC: 마이크로 불기·부르기), 자국이 남는 체험만 작은 '원래대로'. 아래 글줄(`.d-meter`)과 5장 '당신이 남긴 자국'에 인형마다 다른 기록(손때 %·○번 눌렀어요·○초 동안 안았어요·터진 실밥 ○곳·찾았다 등). 인형이 바뀌면 지난 인형의 솜 입자는 치움. **소리(2026-11-19 소유자: 체험 소리와 배경음)** `js/muchloved-sound.js`(`snd`, 음원 파일 없이 Web Audio 합성): 배경음 = 직접 지은 8마디 자장가 오르골 + 부드러운 화음 + 방 공기, 장마다 바뀜(intro 박동만 · wall 맑은 오르골 76bpm · drawer 느리게 · sofa 한 옥타브 낮고 따뜻하게 · floor 금속 종 소리로 바뀌고 태엽이 풀리듯 점점 느려짐 · sleep 거의 고요 · end 다시 밝게). 체험 소리 = 문지르기 천 스침(`rustle`, 문지른 만큼) · 불기 바람(`wind`)+실밥 찢어지는 소리+솜 · 누르기 눌림/풀림 · 흔들기 솜 털림 · 껴안기·박동마다 심장 소리(`beat()`가 냄) · 두드리기 톡 · 잡아당기기 천 삐걱(`creak`, 당긴 만큼 높아짐)+실밥 끊김 · 굴리기 소파 구르는 소리(`rumble`)·쿵 · 꺼내기 쿠션 끽끽(`squeak`)+뽁 · 부르기 대답하는 종(그 뒤 1.2초는 마이크를 듣지 않아 스스로 다시 걸리지 않게) · 서랍 미끄러짐·덜컥·종 · 쿠션 벌어지는 천 소리 · 금속 입김·작은 종 · 잠에서 깨는 종 · 바느질 한 땀 · 원래대로 종. 첫 터치에 켜지고(`xpace-sound=off`면 그대로 꺼짐), 상단 '소리 켜짐/꺼짐' 버튼(`#ml-snd`), 아이폰 무음 스위치·앱 전환 대응. 시험 `__ml.snd.level()`(출력 크기). 인형 위에서 시작한 터치만 스크롤 대신 체험(`touchstart` preventDefault), 그 밖은 그대로 스크롤. 인형마다 앞세우는 동작(`FOCUS`)만 다르고 모든 동작은 어디서나 됨. **'원래대로'** 버튼으로 언제든 작품 원래 모습, 크레딧에 '손때·해진 곳·눌림은 이 화면에만 그려지는 효과이며 작품의 실제 상태가 아님'. 자국은 페이지를 떠나면 사라짐(저장 안 함). **붙박이(sticky)가 안 되던 문제**: `body`의 `overflow-x: hidden`이 스크롤 상자를 만들어 sticky가 풀렸음 → `overflow-x: clip`. 아이폰 웹은 진동 대신 화면 가장자리 박동(`beat`). 소파 사진 속 캐릭터 장난감은 쓰지 않음. 입체 다시 만들기 `tools/muchloved-relief/`. **인형 모양 v2(2026-11-21 소유자: 인형 형태가 이상함)**: `relief2.py`(`python3 tools/muchloved-relief/relief2.py assets/muchloved/r`, 컬러 webp의 알파만으로 다시 뽑음) — 예전 relief.py는 거리 지도 제곱근을 흐려 가운데가 뾰족한 지붕 모양이었음 → 인형 안 모든 점에 들어가는 가장 큰 공을 합친 높이(`h² = max(d(q)² − |x−q|²)`)라 머리는 공·팔다리·귀는 원통, 목·팔 붙는 곳은 잘록. **찢어져 보이던 것 고침(2026-11-25 소유자)**: 둥근 단면이 테두리에서 가파르게 솟아 앞·뒷면이 테두리에서 만나지 못하고 틈·톱니가 생겼음 → `relief2.py`에서 테두리 10px 안에서 두께를 부드럽게 0으로, 뒷면은 앞면(GPU 선형 보간)과 똑같이 원본 깊이 지도를 선형 보간으로 읽고 격자 200칸, 뒷면 색은 덜 흐리고 덜 어둡게, 해진 결 무늬는 해진 자국이 있는 곳에만, 오린 테두리 3px의 배경색 띠를 안쪽 천 색으로 채움(`edgebleed.py`, 원래 모양 알파는 그대로). 텍스처 주소에 `?v=` 붙여 캐시 갱신. 시험 `#debug`면 `__ml.turn = 1.3`으로 인형 각도 고정. 두께는 인형마다 실제 비율(`r/depth.json`, 높이 1 기준 반쪽 두께) × 앞 1.25·뒤 1.1(`FRONT_K`·`BACK_K`, 인형 객체 `dz`·`bz`). **더 빵빵하게(2026-11-25 소유자: 봉제인형 같지 않고 실제 인형처럼)**: 예전 앞 0.8·뒤 0.7 → 1.25·1.1(머리가 거의 공, 두께가 폭보다 조금 두툼), `relief2.py`에서 단면을 `(z/zmax)^0.78`로 불룩하게, 테두리 0으로 줄어드는 폭 10→6px. 문서 `docs/exhibitions/c008-muchloved/`. **한·영·중·일(2026-11-19)**: 화면 문구는 `js/muchloved-i18n.js`의 `t('한국어 문장')`(키 = 한국어, 없으면 한국어), 작가 약력·크레딧은 키 `BIO`·`CREDIT`, 외국어 작가명 Kim Gyuzin, 상단에 언어 선택. 목록·앱 카드 번역은 `data/i18n.json` cells.c008(이때 `data.js`가 `summary`도 번역하게 함, v=37 — 앱 틀 안의 data.js는 다음 앱 빌드부터). `#debug`면 `window.__ml` |
 | `coexist.html` + `js/coexist.js` + `css/coexist.css` | **c009 자연선택 — 새로운 공존의 시작(신예진, 2026-11-21 공개, 무료 — 작가 계약 전 소유자 결정으로 공개, 화면에 'ARTMOS 기획·작가와 협의 중' 표시, 작가가 원치 않으면 `data/remote.json` closed에 c009)** — 3D(Three.js r160, `useLegacyLights`). 안개 속 고목 + 줄기에 박혀 사슬에 매달린 엔진(모두 코드로 만든 모양, 작품 사진 없음). 나무 문지르기·엔진 누르기, 둘이 함께면 엔진 빛이 가지로 흐르고 이끼·새소리('공존'), 기계만 돌면 안개가 탁해짐. 소리는 earshot으로 만든 mp3 11개(`assets/coexist/snd`, 입체 HRTF), 문서 `docs/exhibitions/c009-coexist/`. 포스터·로고 `assets/posters/c009-*`(소유자가 준 그림, 로고 글자 '자연선택' → 2026-11-21 소유자: 제목을 자연선택으로, '새로운 공존의 시작'은 부제·마지막 문구). 입장 화면은 포스터를 어둡게 깔고 천천히 움직임(Ken Burns). **v2 네 장(2026-11-21 소유자: 하나뿐이라 짧다·실제 질감으로)**: 세로 스크롤 한 줄(`.ch` 섹션 190svh, 화면 가운데가 걸친 섹션이 지금 장 `ch`, `body[data-ch]`), 장이 바뀌면 카메라가 안개 속을 날아 다음 자리로(장 위치 `CH_POS` x 0·60·120·180, `VIEW`). ① 신성한 숲 = 고목+엔진 + **먹 무늬 백자 탑 10개**(Lathe, 무늬는 캔버스로 직접 그림) · 엔진 누르기·나무 문지르기·공존 ② 이끼가 덮은 나무 = 받침 위 표백된 유목, 문지른 자리마다 씨앗(`seeds`)이 생겨 이끼 900개가 번짐(`mossPct`), 산호·자갈 ③ 기계를 품은 조각 = 검은 받침 3개 위 조각(유목+톱니·베어링·용수철·관), 옆으로 밀면 돌고 관성, 부품이 따라 돎+톡톡 소리 ④ 빛을 내는 존재 = 가지 다리 6개·나무 몸통·쇠 덩어리·전조등 눈·빛 고리 5개, 꾹 누르면 `wake`가 차며 빛·낮은 울림 ⑤ 맺음(크레딧·나가기). 물체 위에서 시작한 터치만 스크롤 대신 체험(`touchstart` preventDefault), PC는 빈 곳 끌면 돌려 보기. **실제 질감**: Poly Haven·ambientCG CC0 스캔(`assets/coexist/tex`, README) — 나무껍질(색·노멀), 녹슨 쇠(색·노멀·거칠기, 회색으로 물들임), 콘크리트 바닥. 주변 빛 반사(PMREM으로 만든 어두운 전시장), ACES 톤 매핑, 스포트라이트 그림자(휴대폰 1024). 배경·나비·불티는 지금 장을 따라감(`decor`). 소리: 3장 톱니 루프·4장 낮은 울림을 장 자리에 입체로. **움직이는 배경**(2026-11-21 소유자: 화려하게): 둘레 하늘 셰이더(기계=호박빛 줄기·나무=초록 결·공존=위의 빛·반짝임), 멀리 큰 톱니 9개, 나비 24마리(잎·놋쇠, 나무·기계가 깨어날수록 늘어남), 떠오르는 불티·꽃가루, 빛줄기(`updateBackdrop`). **주의**: 시트가 살아 있으면 `data/cells.json`의 새 전시는 **blocks가 하나라도 있어야** 목록에 들어감(`data.js` loadLiveData) — c009는 cover 블록 하나를 둠. 한국어만. `#debug`면 `window.__co` |
 | `screen.html` + `js/screen.js` · `remote.html` + `js/remote.js` · `js/screen-link.js` · `js/qr.js` · `css/screen.css` | **ARTMOS SCREEN — 큰 화면 + 휴대폰 컨트롤러(2026-11-19 소유자: 럭키그랩(luckygrab.joystream.co.kr)처럼 큰 화면을 폰으로 조작, 앱 하단 탭 추가)**. 기술·디자인은 직접 만든 것(럭키그랩의 JoyStream 특허 방식·브랜드·가챠는 쓰지 않음, 흐름만 참고: QR 스캔 → 폰 조이스틱 → 결과는 폰에만). **큰 화면** `screen.html`(사이니지·노트북·데스크톱 브라우저, 가로·세로 모두): 아무도 없으면 가운데 큰 QR + 입장 숫자 4자리 + 3단계 안내, 누가 들어오면 오른쪽 위 작은 QR·숫자 + 아래 참여자 줄(모양·이름·별 수·남은 시간). `?kiosk=1`이면 도구 숨김·마우스 0.8초 뒤 숨김, '전체 화면' 버튼, 화면 꺼짐 막기. **체험 = 장승효 · 나비의 정원(2026-11-21 소유자: '캡슐 뽑기 말고 장승효 작가의 전시로, 다양한 나비로 많은 사람이 함께' — 행성 뽑기·별자리는 없앰, 옛 코드는 git 기록에)**. 작가 작품 이미지의 전시·게임 사용 허락 있음(소유자 확인 2026-11-21). 작품 2점 `assets/screen/jangsh-art-1.webp`(969×434)·`-2.webp`(700×700), 작품 속 나비를 오려 낸 그림 `jangsh-bf-1·2.webp`(GrabCut+색 힌트, 몸통 축 `BODY` .51·.495). **작품 이름은 아직 모름** → `ARTS[].title` 비워 두면 '장승효 작가의 나비'로 표시, 작가에게 받으면 넣기. **작품 조각 모으기(협동, 2026-11-21 소유자: 가운데 퍼즐 판이 배경을 다 가려서 다른 게임으로 — 판 없음)**: 화면 전체가 무대. 작품에서 떼 낸 동그란 조각(흰 테두리, 금빛 테두리는 5개, 10%)이 가장자리에서 날아와 떠다님(사람 수만큼 늘어 최대 34개). 폰마다 나비 한 마리(최대 `MAX_P` 40) — **여러 모양 `FORMS` 8가지**(같은 두 그림을 크기·날개 폭·날갯짓 빠르기·좌우로 다르게, 덜 쓰인 모양부터 나눠 줌). 나비는 몸통을 축으로 날개를 접었다 폄, 움직이는 쪽으로 기울고 이름표. 조각에 닿으면 그 나비에게 빨려 들어가 점수(폰에 '조각 n'), 고리·반짝임. 모두의 목표 `total` = 30+사람×15(40~400, 사람이 들어오면 늘어남, `goalFor`·`setGoal`). 모을수록 뒤 배경 작품이 또렷·선명해짐(`BG.wake`). 위에 진행 막대 '함께 모은 조각 n/목표'. **다 모으면 만개**: 작품이 화면 가운데에 활짝 드러나고 나비 70마리가 아래에서 쏟아져 오름(`shower`), '모두 함께 활짝 피웠어요'·참여 나비 수·가장 많이 모은 나비 3, 폰마다 완성 카드(작품·내가 모은 조각·순위·'장승효 작품 소장하러 가기' → 웹 `collect.html`, 앱 안이면 `artmos:go-tab`{tab:'shop'} → `app.js`가 컬렉트 탭으로), `NEXT_AFTER` 22초 뒤 다음 작품으로 새 판(작품 번갈아). 게임 중엔 배경 소용돌이 조각을 옅게 해 모을 조각이 눈에 띄게. **크기**(2026-11-23 소유자: 너무 작아 보임): 나비 화면 짧은 변의 26%, 날개는 42%까지만 접힘, 모을 조각 반지름 5%(24~62px), 만개 나비 18%, 배경 나비 8%, 이름표 글자 14~22px. '힘껏 날갯짓'(1.6초마다) = 0.7초 2배 빠르기+반짝임. 사람이 없으면 QR 안내 뒤로 흐린 나비 3마리가 날아다님(대기 화면). **움직이는 배경**(2026-11-21 소유자: 화려하게, BLUECANVAS 영상 같은 느낌): `drawBg` — 지금 작품을 크게 깔아 천천히 돌고 숨 쉼, 따뜻한 빛 번짐, 작품에서 떼 낸 동그란 조각(사탕·꽃·보석) 130개가 가운데서 바깥으로 소용돌이, 반짝이 십자 빛, 작은 나비 6마리, 가장자리·가운데 살짝 어둡게. 위 제목 줄은 어두운 띠, 이름표는 검은 테두리 글자. 사람이 많을수록 폰이 덜 자주 보냄(`hzFor`: 초당 합계 90번 안쪽, 한 대 3~15번, 화면이 `rate`로 알려 줌) — Supabase 무료 실시간 한도 때문, 아주 큰 행사면 유료 요금제 확인. 큰 통로로 모두에게 `prog`(진행률, 0.9초마다)·`round`·`rate`, 폰 통로로 `welcome`(나비 그림 주소·모양 이름)·`got`·`complete`. `#debug`면 `__scr.finishAll()`로 바로 만개 시험. 큰 화면 QR·숫자 카드는 오른쪽 아래, 알림은 왼쪽 위. **휴대폰** `remote.html`: 앱 설치 없이 QR(`remote.html?c=숫자`)로 들어오거나 앱 스크린 탭에서. 숫자·이름 → 연결 → 둥근 조이스틱(손잡이가 내 나비 그림, 밀어서 기본) / 기울여서(누른 때 자세가 가운데, `sensors.js` tiltX·Y) + '힘껏 날갯짓' 버튼, 위에 내 조각 수·함께 완성 % → 완성 카드. 앱 안이면(`?app=1`) 상단 바를 상태 표시줄 아래로(`--sat`, 빛쌀과 같은 방법), 나가기는 `artmos:close-exhibit`. **연결** `screen-link.js`: Supabase Realtime 브로드캐스트(기존 프로젝트·공개 publishable 키, 서버에 저장 안 함). 통로 `artmos-scr-<숫자>`(폰이 join, 화면 presence로 같은 숫자 쓰는 화면이 있으면 숫자를 바꿈) + 폰마다 `artmos-scr-<숫자>-<pid>`(입력·결과는 여기만 → 다른 폰에 안 감). 폰은 바뀔 때만 입력(-1~1 속도 벡터, 빈도는 사람 수에 따라), 3초마다 ping, 화면은 3초마다 hb. 10초 소식 없으면 나간 것. `?local=1`이면 같은 브라우저 창끼리 BroadcastChannel(인터넷 없이 시험: `screen.html?local=1` 열고 QR 주소에 local=1이 붙음). **QR**은 `js/qr.js`가 직접 만듦(라이브러리 없음, 오류 정정 M·버전 1~6, OpenCV로 읽기 확인). 아직 한국어만. `#debug`면 `window.__scr`·`window.__rmt` |
 | `js/sakamoto-lab.js` | **A-004 async(류이치 사카모토) 센서 소리 실험 4가지** — 블록 type `async`(어긋난 박자: 일곱 추가 조금씩 다른 박자로 울림, 기울이면 더 어긋남·흔들면 다시 맞춤·엎으면 고요·추를 눌러 끄고 켜기), `rain`(빗소리: 기울여 바람·빗줄기, 누르면 빗방울 음, 엎어 두거나 버튼으로 양동이 속 금속 울림), `forest`(세계의 소리 360°: 시냇물·새·바람과 나무·빙하 물방울·먼 피아노, 나침반으로 몸을 돌리면 바라보는 쪽 소리가 커짐·앞으로 기울이면 가까이, PC는 끌기·소리 점 누르기), `silence`(고요: 엎어 두거나 버튼/스페이스를 10초 누르면 라(A) 한 음과 'Ars longa, vita brevis'). 모두 실시간 합성, 화면에 보일 때만 소리·그림. 블록은 `data/cells.json`에 `extra: true`, order 4.5/5.5/5.7/8.5로 있고, `data.js`가 시트에 같은 종류가 없으면 끼워 넣음. 번역은 `data/i18n.json`의 `c004:4.5` 등 |
